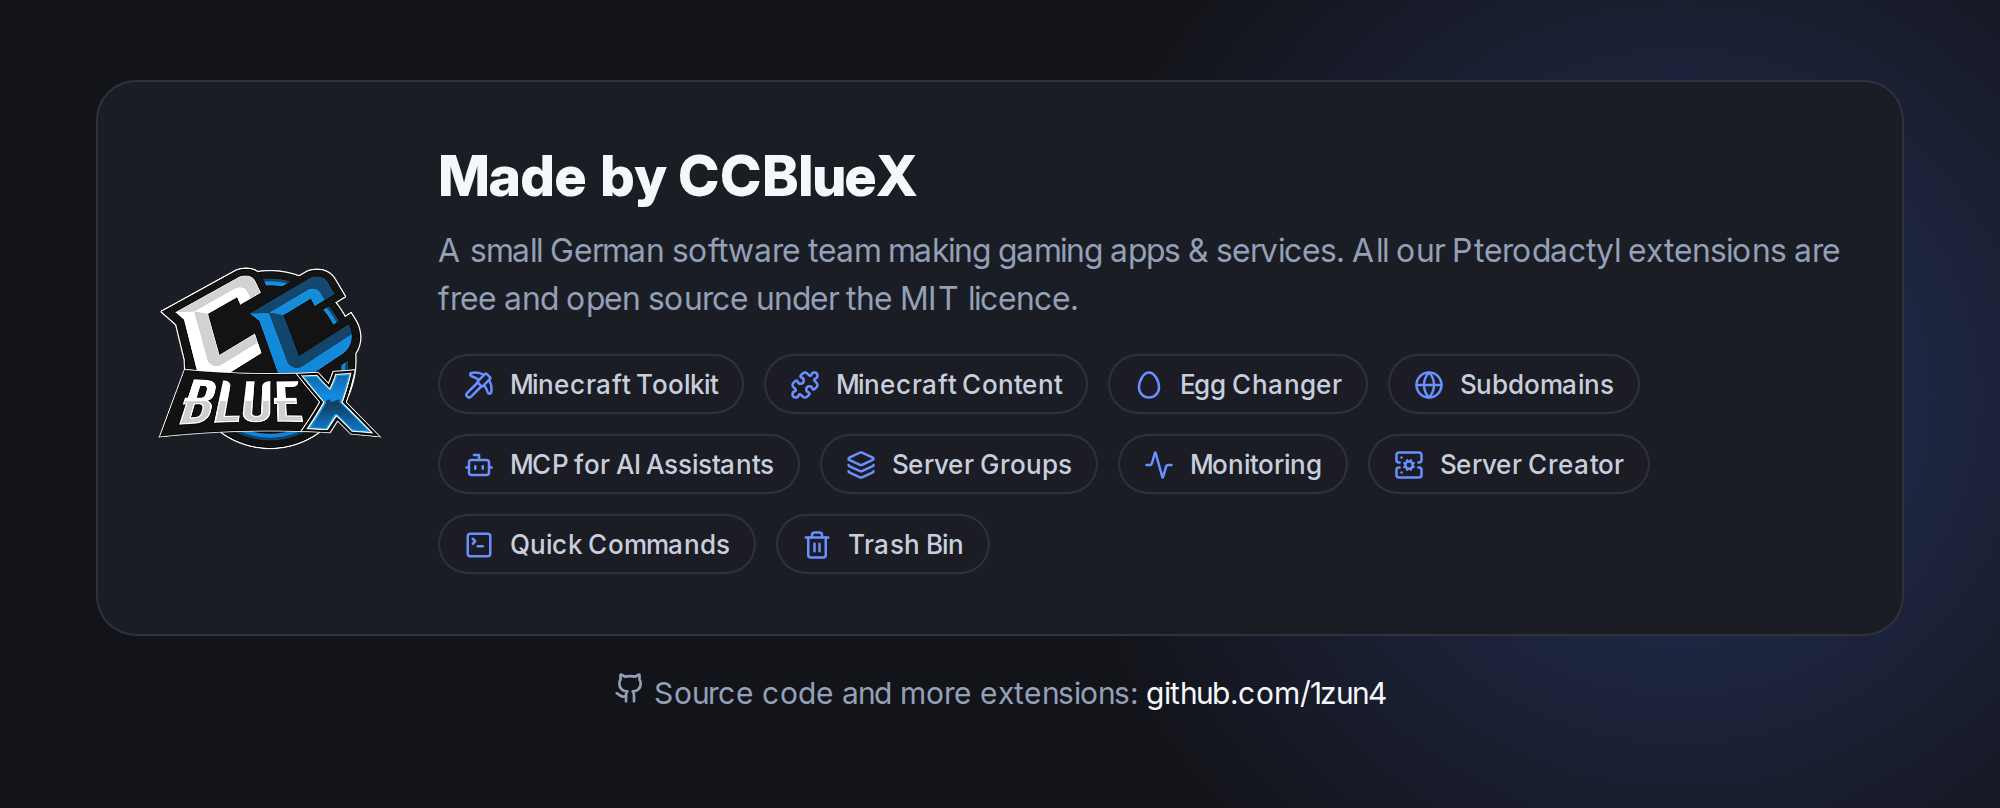
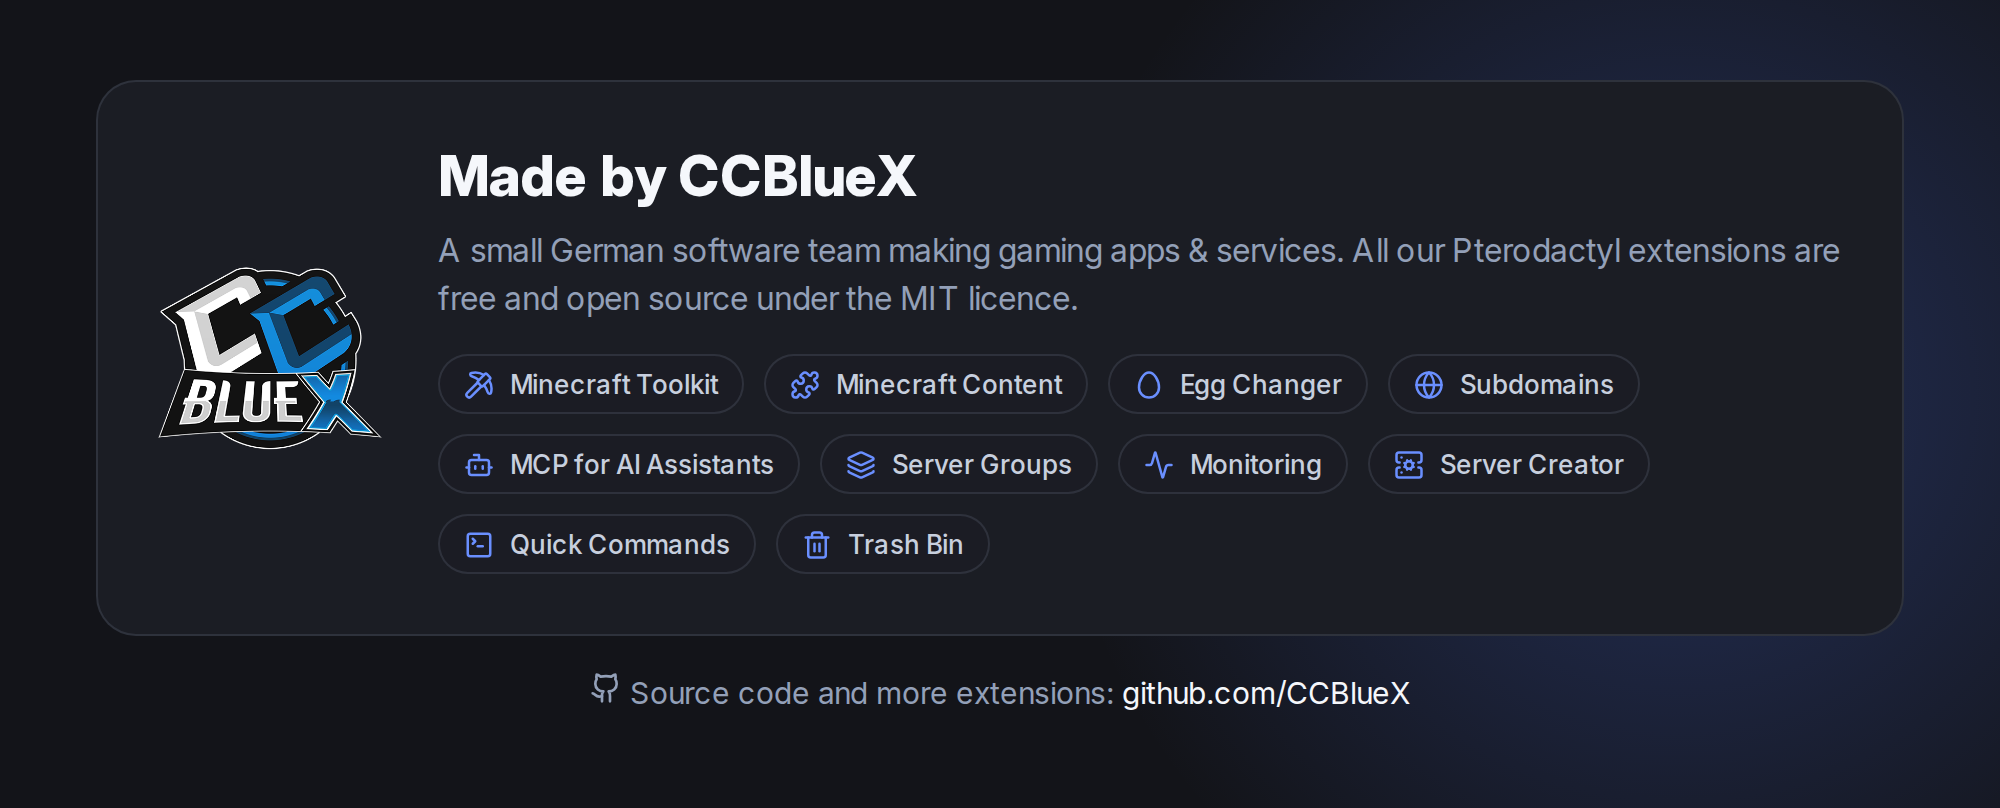
docs: move to ccbluex and hide node hostnames

Changed region(s): [[0.279, 0.8354, 0.713, 0.8973]]

diff --git a/README.md b/README.md
@@ -1,9 +1,9 @@
 # phpMyAdmin for Pterodactyl
 
-[![Release](https://img.shields.io/github/v/release/1zun4/Pterodactyl-Extension-phpMyAdmin?style=flat-square)](https://github.com/1zun4/Pterodactyl-Extension-phpMyAdmin/releases/latest)
-[![Downloads](https://img.shields.io/github/downloads/1zun4/Pterodactyl-Extension-phpMyAdmin/total?style=flat-square)](https://github.com/1zun4/Pterodactyl-Extension-phpMyAdmin/releases)
+[![Release](https://img.shields.io/github/v/release/CCBlueX/Pterodactyl-Extension-phpMyAdmin?style=flat-square)](https://github.com/CCBlueX/Pterodactyl-Extension-phpMyAdmin/releases/latest)
+[![Downloads](https://img.shields.io/github/downloads/CCBlueX/Pterodactyl-Extension-phpMyAdmin/total?style=flat-square)](https://github.com/CCBlueX/Pterodactyl-Extension-phpMyAdmin/releases)
 [![Pterodactyl](https://img.shields.io/badge/Pterodactyl-2.0-0e4688?style=flat-square)](https://pterodactyl.io)
-[![License](https://img.shields.io/github/license/1zun4/Pterodactyl-Extension-phpMyAdmin?style=flat-square)](LICENSE)
+[![License](https://img.shields.io/github/license/CCBlueX/Pterodactyl-Extension-phpMyAdmin?style=flat-square)](LICENSE)
 
 Open server databases in phpMyAdmin with one click, without copying passwords.
 
@@ -11,7 +11,7 @@ Open server databases in phpMyAdmin with one click, without copying passwords.
 
 ## Install
 
-1. Download `phpmyadmin-<version>.pteroext` from the [latest release](https://github.com/1zun4/Pterodactyl-Extension-phpMyAdmin/releases/latest), then install and enable it under **Admin → Extensions**.
+1. Download `phpmyadmin-<version>.pteroext` from the [latest release](https://github.com/CCBlueX/Pterodactyl-Extension-phpMyAdmin/releases/latest), then install and enable it under **Admin → Extensions**.
 2. Copy [`contrib/phpmyadmin/signon.php`](contrib/phpmyadmin/signon.php) next to phpMyAdmin's `index.php`, add the server from [`config.inc.php.example`](contrib/phpmyadmin/config.inc.php.example) and fill in the panel URL and a secret.
 3. Open the extension's settings and enter the `signon.php` URL and the same secret.
 
